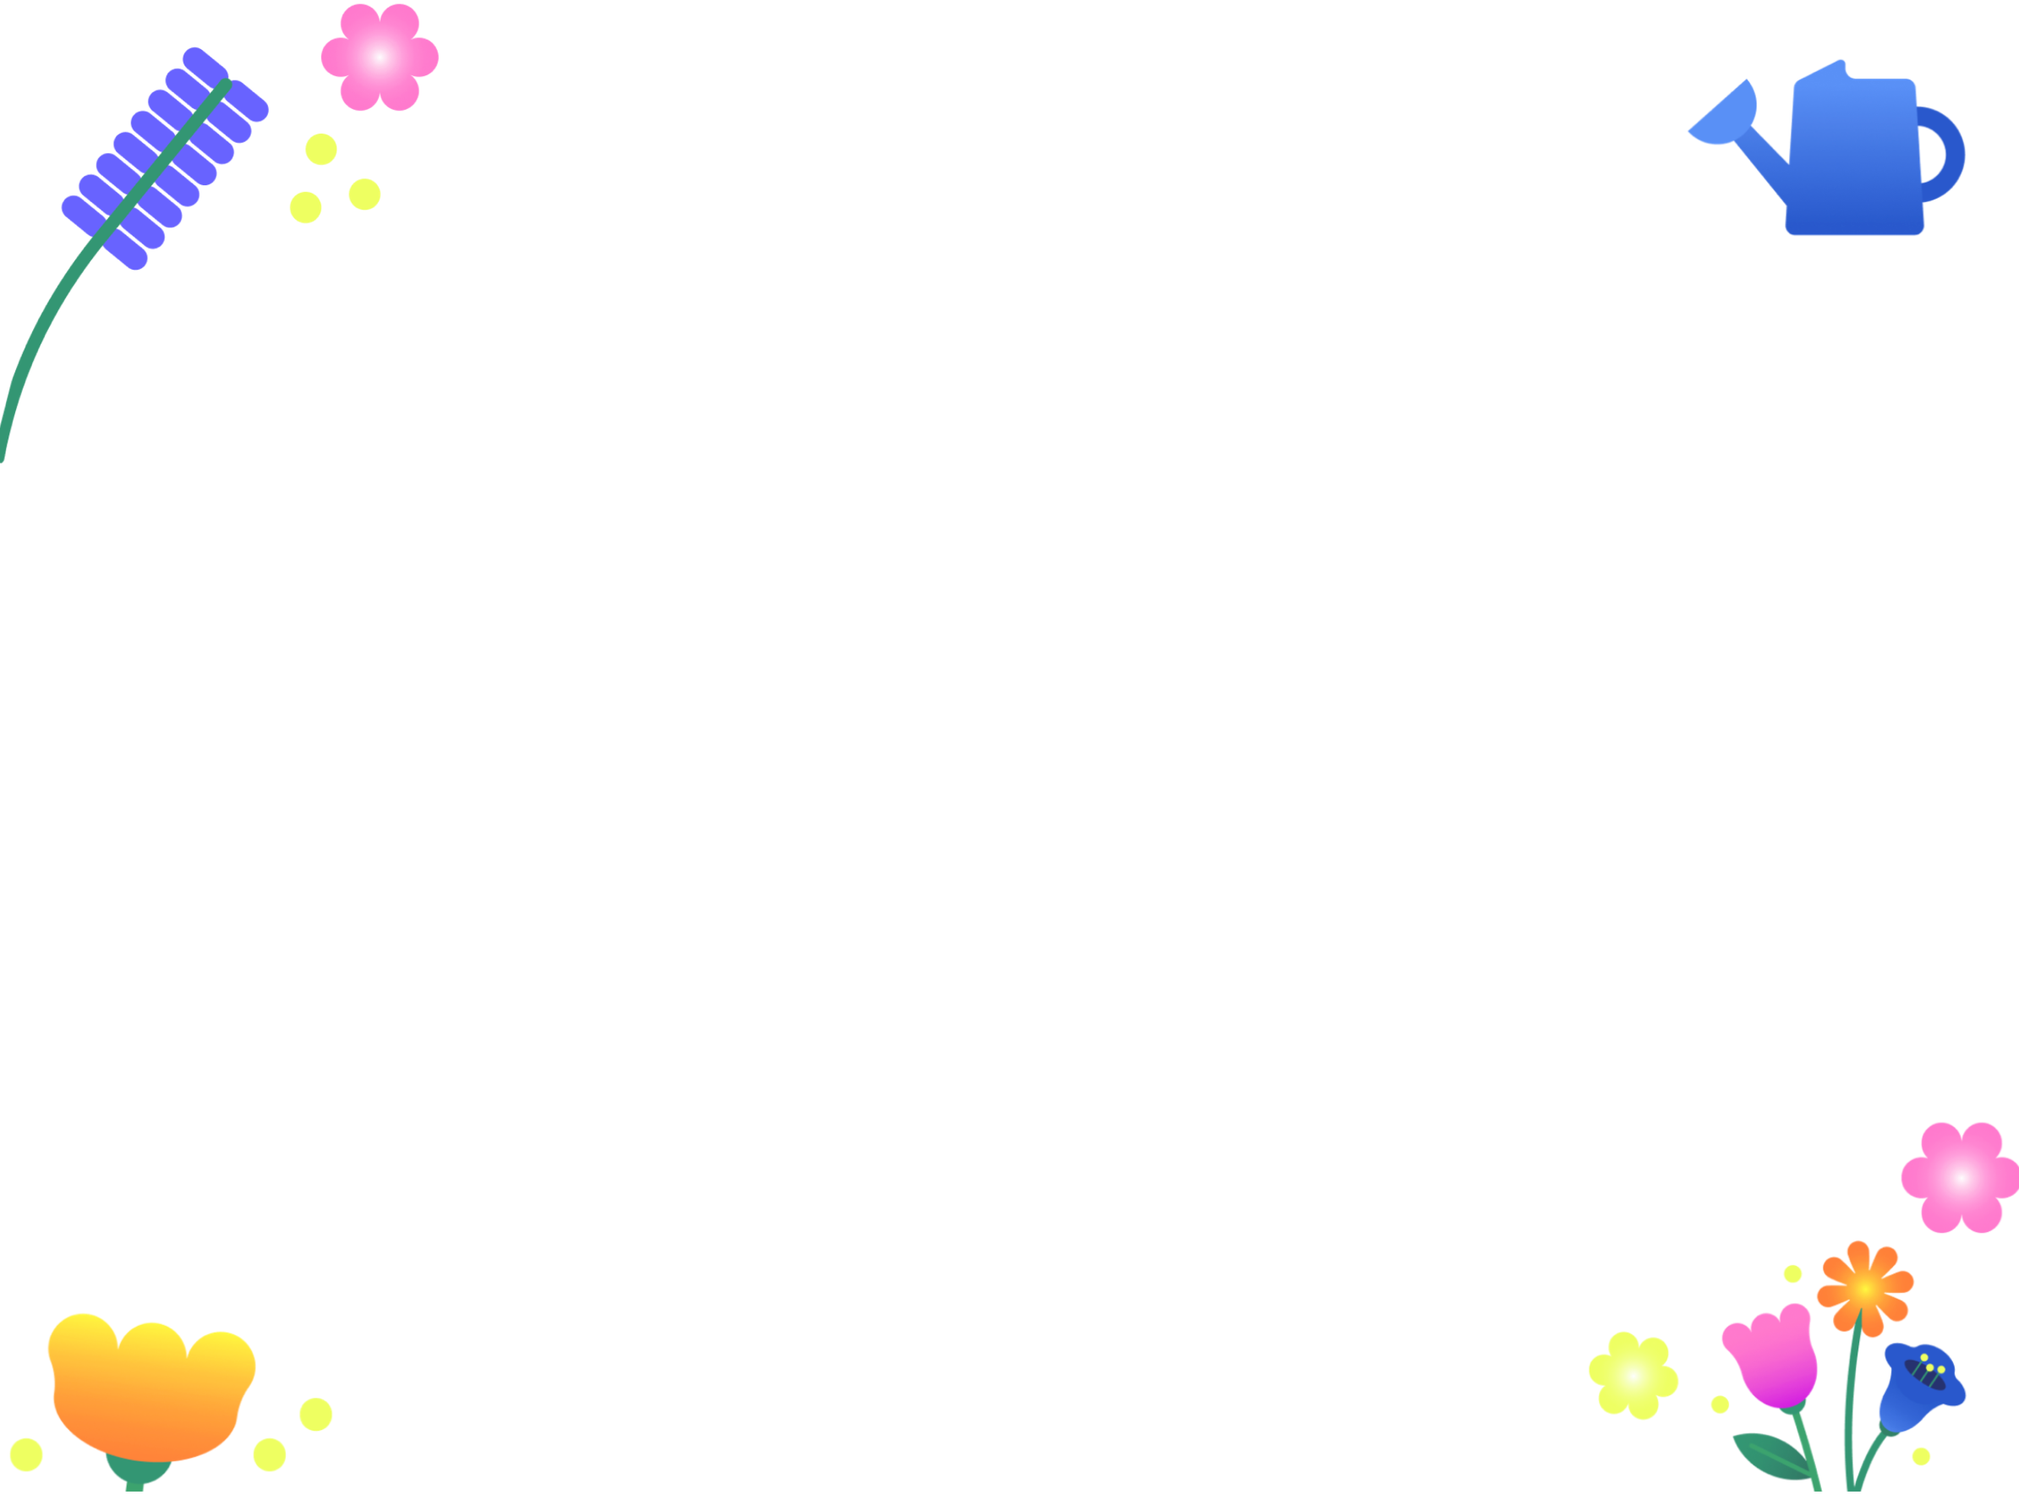
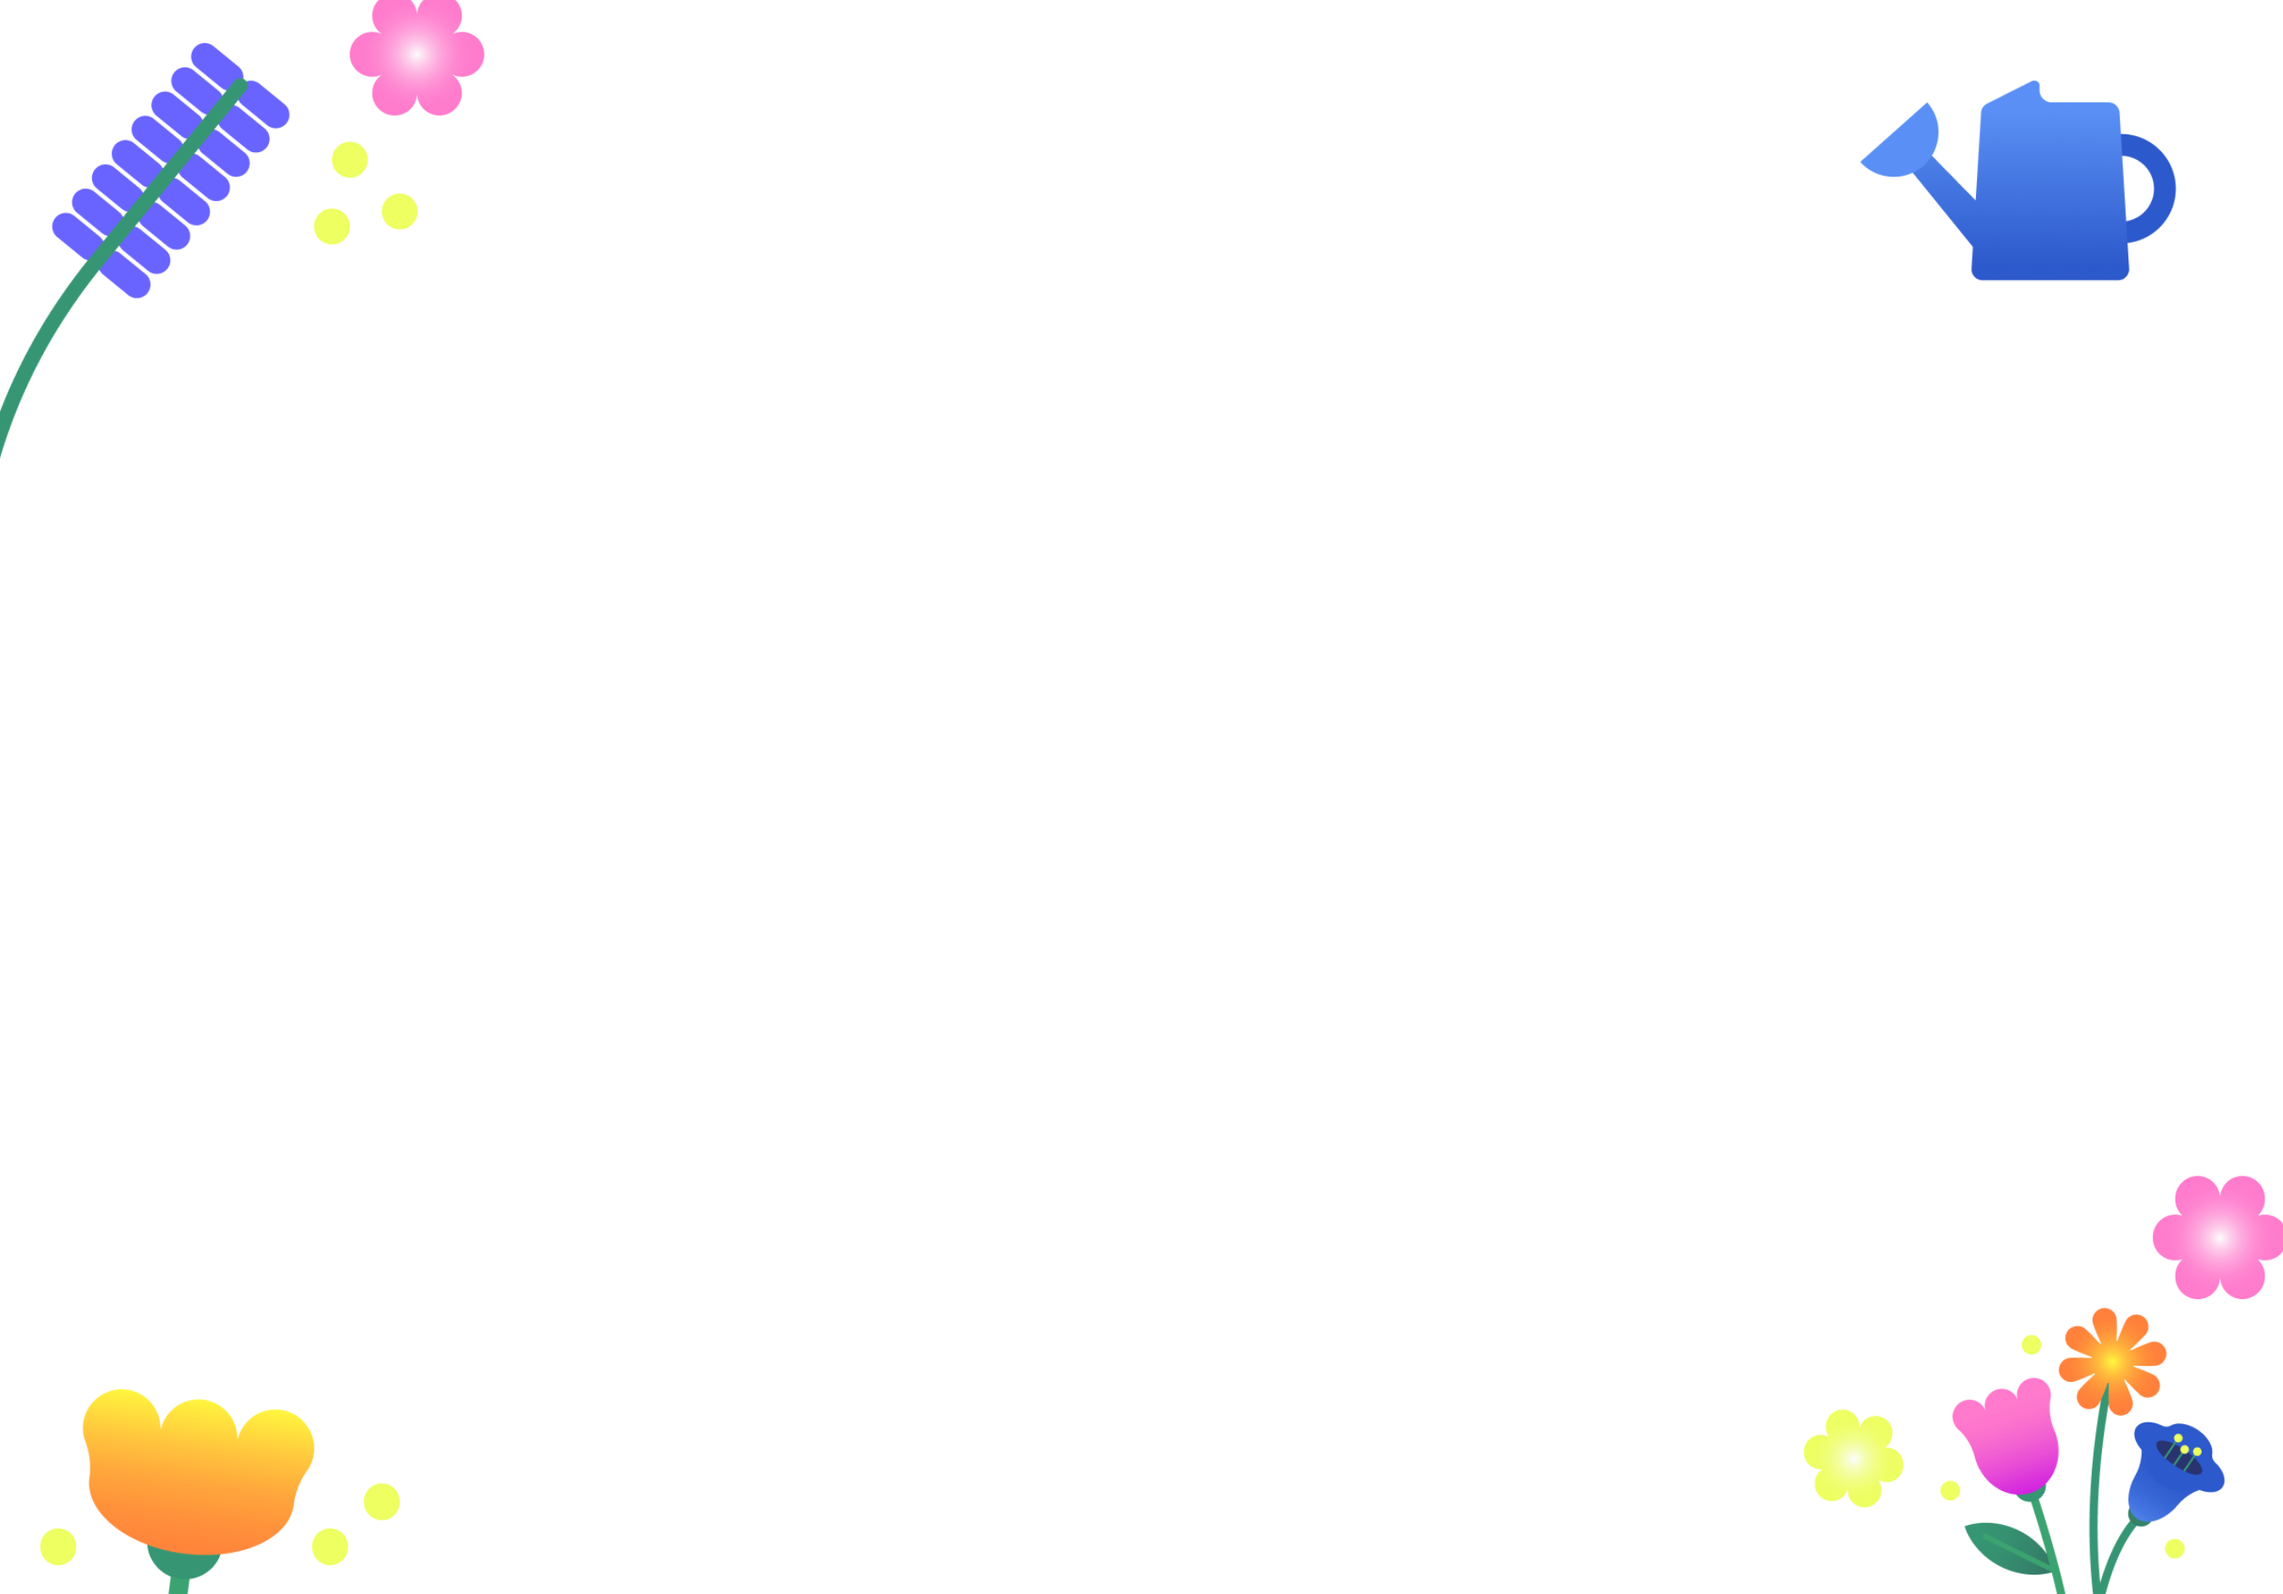
fix: update missing commits

diff --git a/src/styles/styles.scss b/src/styles/styles.scss
@@ -1,5 +1,9 @@
-$width: 2388px;
-$height: 1768px;
+// $width: 2388px;
+// $height: 1768px;
+
+$width: 2700px;
+$height: 1886;
+
 
 body {
   margin: 0;
@@ -19,22 +23,26 @@ body {
   background-color: #fff;
   position: relative;
   // border: 1px solid gray;
+  margin-left: auto;
+  margin-right: auto;
+  margin-top: auto;
+  margin-bottom: auto;
 }
 
 .logo {
-  position: absolute;
+  position: relative;
   width: 75px;
   height: 59px;
   left: 50%;
   transform: translateX(-50%);
-  bottom: 48px;
+  // bottom: 48px;
 }
 
 .wrapper > .header {
   display: flex;
   width: $width - 302px;
-  // padding-top: 390px;
   padding-top: 340px;
+  // padding-top: 290px;
   margin: 0 auto 0 auto;
   justify-content: space-between;
   align-items: center;
@@ -93,6 +101,7 @@ body {
 .wrapper > .main {
   margin: 115px auto 0 auto;
   position: relative;
+  padding-top: 25px;
 }
 
 .wrapper > .main > .days {
@@ -101,6 +110,7 @@ body {
   justify-content: center;
   width: 90%;
   margin-left: 30px;
+  margin-top: 30px;
 }
 
 .wrapper > .main > .days > .day {
@@ -108,16 +118,16 @@ body {
   position: relative;
   margin-bottom: 106px;
 
-  &.friday {
-    width: 39%;
-  }
+  // &.friday {
+  //   width: 39%;
+  // }
 
   > .button {
     position: relative;
     display: inline-block;
     box-shadow: 0px 6px 6px rgba(0, 0, 0, 0.15);
     border-radius: 36px;
-    padding: 24px 0;
+    padding: 23px 0;
     font-size: 36px;
     color: #fff;
     z-index: 2;
@@ -125,7 +135,7 @@ body {
     text-align: center;
   }
 
-  > .line {
+    > .line {
     height: 28px;
     width: 100%;
     position: absolute;
@@ -145,13 +155,15 @@ body {
 .schedules > .mon-to-thurs {
   display: flex;
   flex-direction: row;
+  padding-top: 50px;
 }
 
 .schedules > .mon-to-thurs > .col {
   position: relative;
   display: flex;
   flex-direction: column;
-  margin-right: 15px;
+  // margin-right: 15px;
+  
 
   &:last-child {
     margin-right: 0;
@@ -166,6 +178,7 @@ body {
     text-align: center;
     font-size: 24px;
     width: 100%;
+    margin-right: 15px;
   }
 
   > .button {
@@ -177,6 +190,20 @@ body {
     width: 197.5px;
     height: 162px;
     background-color: #fff;
+    margin-bottom: 42px;
+    margin-left: 15px;
+    z-index: 2;
+
+    &:last-child {
+      margin-bottom: 0;
+    }
+  }
+
+  > .blank{
+    position: relative;
+    display: inline-block;
+    width: 225x;
+    height: 162px;
     margin-bottom: 42px;
 
     &:last-child {
@@ -194,6 +221,9 @@ body {
     background-color: #fff;
     margin-bottom: 0;
     padding-top: 250px;
+    margin-right: 0;
+    margin-left: 15px;
+    z-index: 2;
 
     &.no-afternoon {
       height: 79%;
@@ -219,6 +249,7 @@ body {
     background-color: #fff;
     margin-bottom: 0;
     padding-top: 245px;
+    margin-left: 15px;
 
     &.no-afternoon {
       height: 79%;
@@ -264,16 +295,17 @@ body {
   }
 }
 
+
 .schedules > .fri {
   > .button {
     position: relative;
     display: inline-block;
-    margin-top: 38px;
     box-shadow: 0px 4px 17px rgba(0, 0, 0, 0.25);
     border-radius: 20px;
     width: 100%;
     height: 152px;
     background-color: #fff;
+    margin-top: 40px;
 
     > .text {
       font-size: 36px;
@@ -286,6 +318,7 @@ body {
     }
   }
 }
+
 
 .popup {
   background-color: #ffffff;
@@ -320,3 +353,4 @@ body {
   border-radius: 16px;
   // box-shadow: 0px 4px 17px rgba(172, 172, 172, 0.164);
 }
+

diff --git a/src/components/Background/sticker.tsx b/src/components/Background/sticker.tsx
@@ -2,20 +2,19 @@ import { FC } from "react"
 import Image from "next/image"
 
 export const StickerPreview: FC = () => {
-  return (
-    <div className="absolute top-0 left-0 z-[2] h-full w-full">
-      <Image src="/assets/sticker-bg.png" width={2388} height={1768}></Image>
-    </div>
-  )
+    return (
+        <div className="absolute top-0 left-0 z-[2] h-full w-full">
+            <Image src="/assets/sticker-bg.png" width={2700} height={1886}></Image>
+        </div>
+    )
 }
 
 const Sticker: FC = () => {
-  return (
-    // <div className="absolute top-0 right-0 z-[2] h-[1886px] w-[2700px] ">
-    <div className="absolute top-0 right-0 z-[2] h-[1768px] w-[2388px] ">
-      <Image src="/assets/sticker-bg.png" width={2388} height={1768}></Image>
-    </div>
-  )
+    return (
+        <div className="absolute top-0 right-0 z-[2] h-[1886px] w-[2700px] ">
+            <Image src="/assets/sticker-bg.png" width={2700} height={1886}></Image>
+        </div>
+    )
 }
 
 export default Sticker

diff --git a/src/components/Background/flower.tsx b/src/components/Background/flower.tsx
@@ -3,20 +3,19 @@ import { FC } from "react"
 import Image from "next/image"
 
 export const FlowerPreview: FC = () => {
-  return (
-    <div className="absolute top-0 left-0 z-[2] h-full w-full">
-      <Image src="/assets/flower-bg.png" width={2600} height={1816}></Image>
-    </div>
-  )
+    return (
+        <div className="absolute top-0 left-0 z-[2] h-full w-full">
+            <Image src="/assets/flower-bg.png" width={2600} height={1816}></Image>
+        </div>
+    )
 }
 
 const Flower: FC = () => {
-  return (
-    // <div className="absolute top-0 right-0 z-[2] h-[1886px] w-[2700px] ">
-    <div className="absolute top-0 right-0 z-[2] h-[1768px] w-[2388px] ">
-      <Image src="/assets/flower-bg.png" width={2388} height={1768}></Image>
-    </div>
-  )
+    return (
+        <div className="absolute top-0 right-0 z-[2] h-[1886px] w-[2700px] ">
+            <Image src="/assets/flower-bg.png" width={2700} height={1886}></Image>
+        </div>
+    )
 }
 
 export default Flower

diff --git a/src/components/Background/Mistletoe.tsx b/src/components/Background/Mistletoe.tsx
@@ -7,6 +7,7 @@ export const MistletoePreview: FC = () => {
     <div className="absolute top-[13.5px] left-[2.5px] z-[2] h-[277px] w-[406px]">
       {/* <Image src="/assets/christmas-bg-preview.png" width={2388} height={1668} /> */}
       <Image src="/assets/christmas-bg-rordor-preview.png" width={2600} height={1768} />
+
     </div>
   )
 }
@@ -17,6 +18,7 @@ const Mistletoe: FC = () => {
     <div className="absolute top-[100px] left-0 z-[2] h-[1768px] w-[2600px] ">
       {/* <Image src="/assets/christmas-bg.png" width={2388} height={1668} /> */}
       <Image src="/assets/christmas-bg-rordor.png" width={2700} height={1886} />
+
     </div>
   )
 }

diff --git a/src/components/Background/Ordaments.tsx b/src/components/Background/Ordaments.tsx
@@ -3,7 +3,7 @@ import { BottomRightDeco, TopLeftDeco, TopRightDeco } from "./Decorations"
 
 export const OrdamentsPreview: FC<{ color: string }> = ({ color }) => {
   return (
-    <div className="absolute top-0 left-0 h-full w-full">
+    <div className="absolute top-0 left-0 w-full h-full">
       <div className="absolute left-[20px] top-[1px] w-[94px]">
         <TopLeftDeco color={color} />
       </div>
